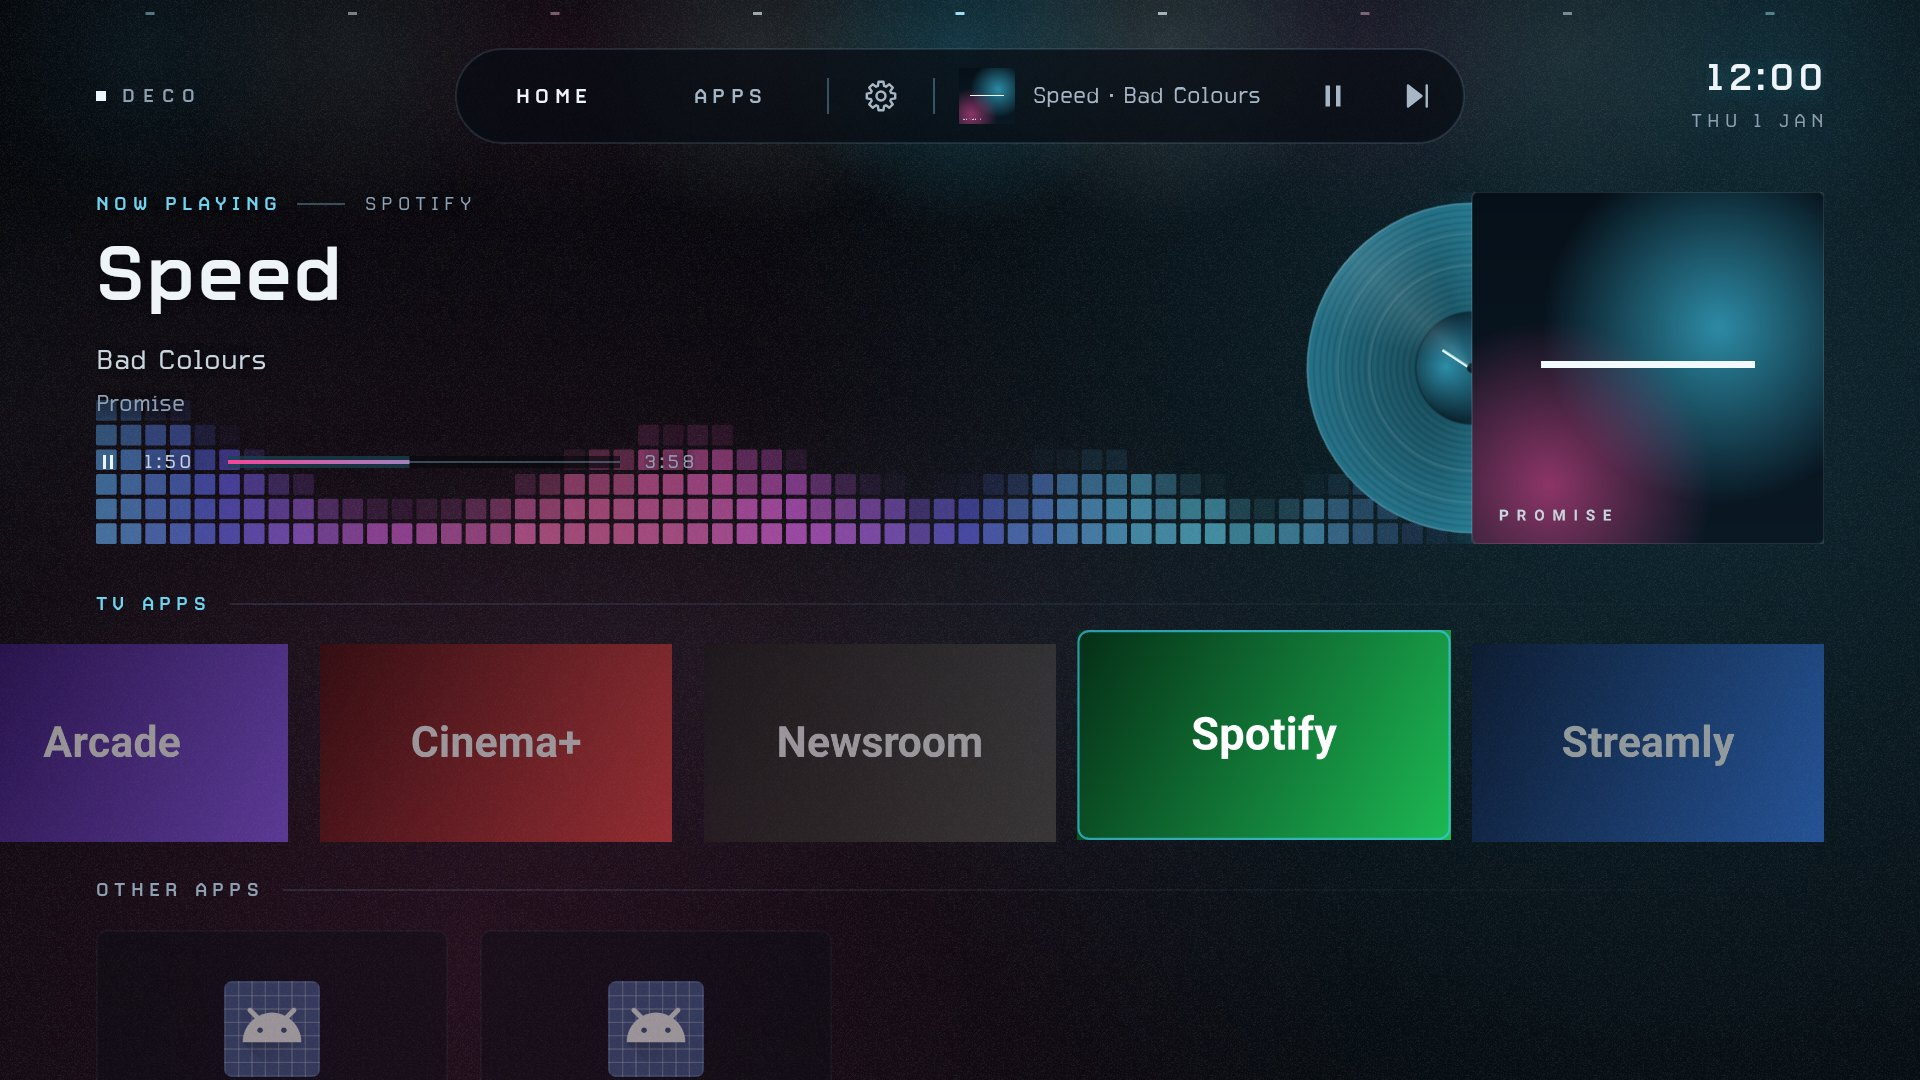
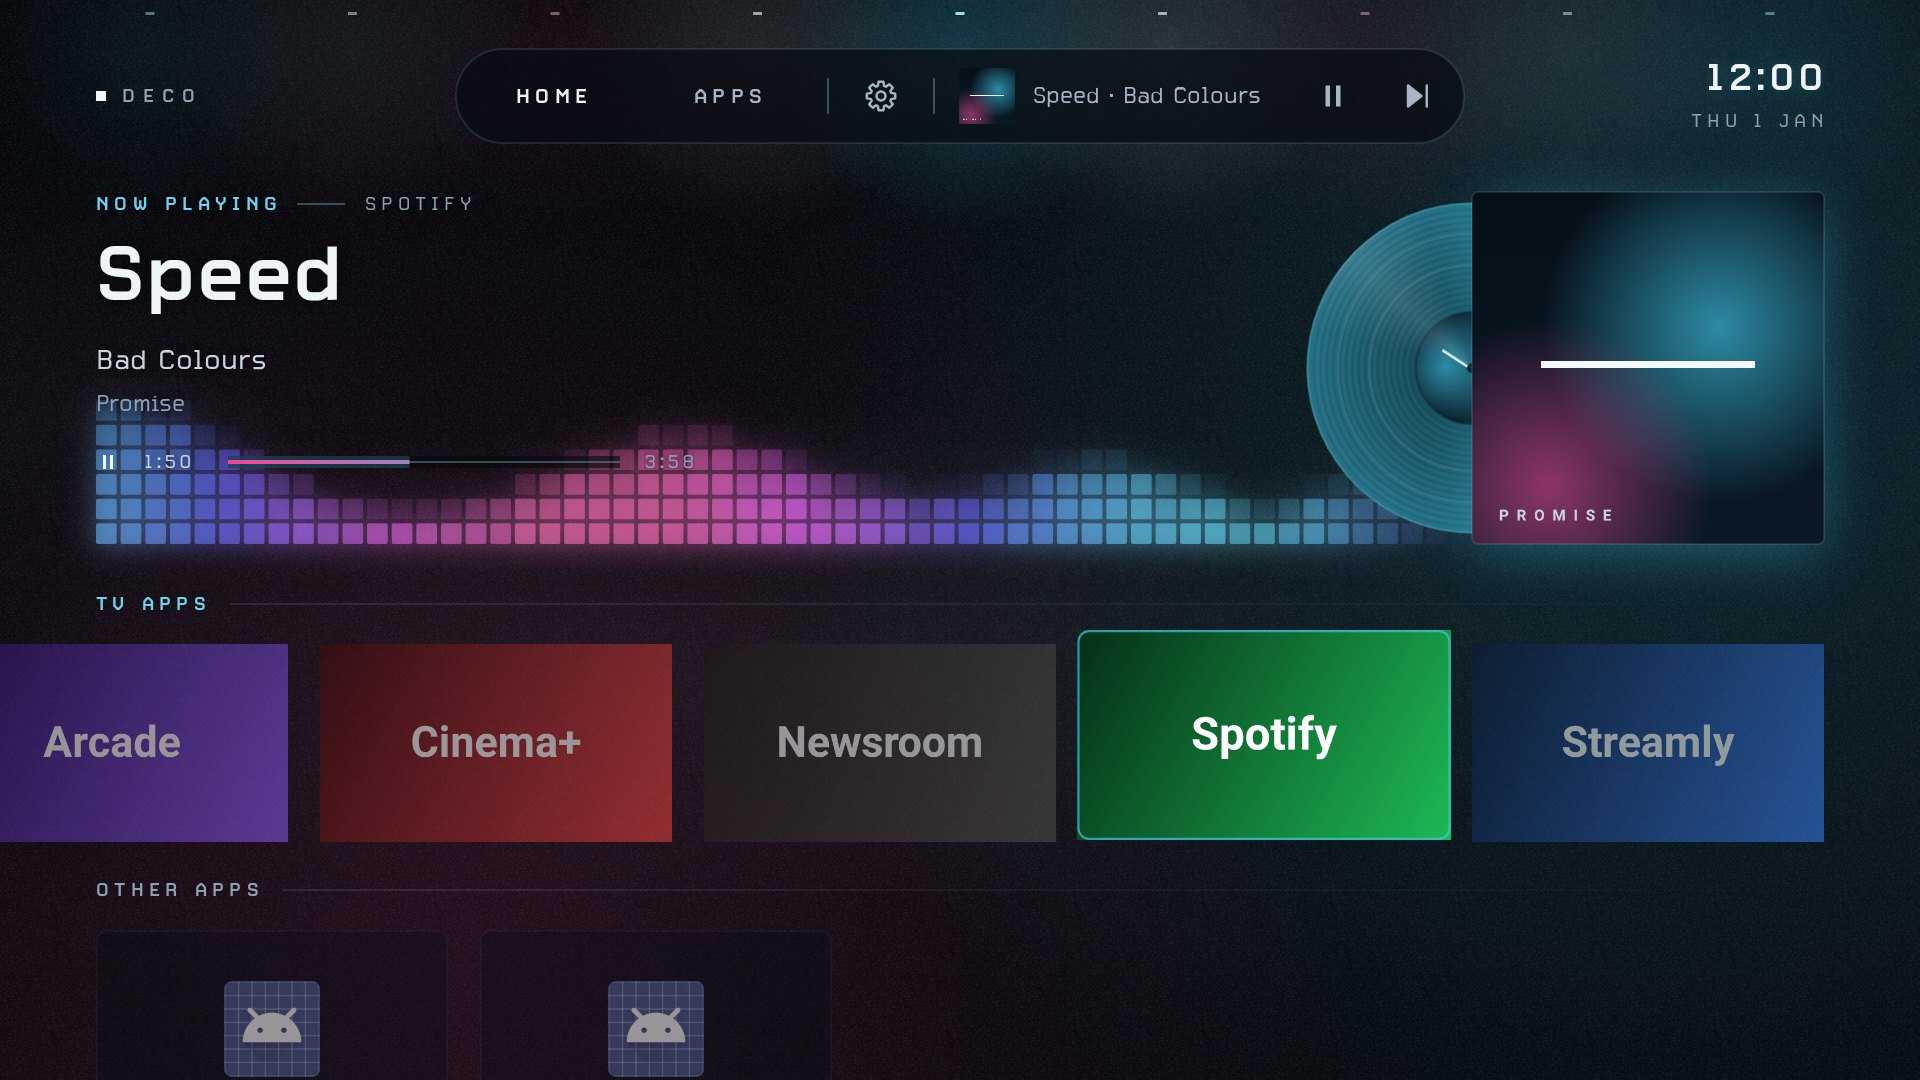
Deco Launcher 2.18: the visualizer glows like the wall of lamps
Each lit cell gets the same soft round glow as the wall's lamps, in its
band's colour: drawn small and stretched behind the sharp cells, a little
gentler so the cells stay see-through and never blow out. The hero no longer
clips, so the glow can spread just past the panel.

Claude-Session: https://claude.ai/code/session_01R4jjYX362V9wqDyS12UV2c

Changed region(s): [[0.0312, 0.3667, 0.75, 0.5194], [0.7812, 0.4889, 0.9375, 0.5194]]

diff --git a/launcher/app/src/main/java/com/camdeco/launcher/SoundWaveView.java b/launcher/app/src/main/java/com/camdeco/launcher/SoundWaveView.java
@@ -1,8 +1,12 @@
 package com.camdeco.launcher;
 
 import android.content.Context;
+import android.graphics.Bitmap;
 import android.graphics.Canvas;
 import android.graphics.Paint;
+import android.graphics.PorterDuff;
+import android.graphics.PorterDuffXfermode;
+import android.graphics.Rect;
 import android.graphics.RectF;
 import android.util.AttributeSet;
 import android.view.View;
@@ -19,8 +23,9 @@ import android.view.animation.AnimationUtils;
  * fades in and out, so heights change smoothly rather than a whole cell at a time. The cells take
  * the scene's colours, from the album cover: bands of its key and fill colour drift slowly across
  * the panel, blending round the colour wheel between them, and every cell is a little whiter
- * toward the bottom. The cells have no glow of their own, so they never blow out over the haze,
- * and the grid goes dark when the music stops.
+ * toward the bottom. Each lit cell has a soft round glow, like the wall of lamps: drawn small and
+ * stretched, and gentle enough that the cells never blow out over the haze. The grid goes dark
+ * when the music stops.
  */
 public class SoundWaveView extends View {
     private static final int COLUMNS = SoundWave.COLUMNS;
@@ -40,6 +45,20 @@ public class SoundWaveView extends View {
 
     private final Paint cellPaint = new Paint(Paint.ANTI_ALIAS_FLAG);
     private final RectF rect = new RectF();
+    /** How strong a cell's glow is, for its opacity. */
+    private static final float GLOW = 0.38f;
+    /** The glow layer is drawn at this fraction of the panel's size, spreading a little past it. */
+    private static final float SOFT = 1 / 8f;
+    private final Bitmap glowSprite = Glow.sprite();
+    private final Paint glowPaint = new Paint(Paint.FILTER_BITMAP_FLAG);
+    private final Paint softPaint = new Paint(Paint.FILTER_BITMAP_FLAG | Paint.DITHER_FLAG);
+    private final Rect softBounds = new Rect();
+    private Bitmap soft;
+    private Canvas softCanvas;
+    /** This frame's lit cells: where (column, row), how opaque, and what colour. */
+    private int[] litCell = new int[0];
+    private float[] litOpacity = new float[0];
+    private int[] litColour = new int[0];
     private final float[] target = new float[COLUMNS];
     private final float[] shown = new float[COLUMNS];
     private SoundWave source;
@@ -62,6 +81,7 @@ public class SoundWaveView extends View {
 
     public SoundWaveView(Context context, AttributeSet attrs) {
         super(context, attrs);
+        glowPaint.setXfermode(new PorterDuffXfermode(PorterDuff.Mode.ADD)); // light adds up
     }
 
     void setSource(SoundWave wave) {
@@ -139,7 +159,22 @@ public class SoundWaveView extends View {
         rows = pitch > 0 ? Math.max(1, (int) ((h + pitch * GAP) / pitch)) : 0;
         palette = new int[(STEPS + 1) * rows];
         rowOpacity = new float[rows];
+        litCell = new int[ALL * rows];
+        litOpacity = new float[ALL * rows];
+        litColour = new int[ALL * rows];
         updateRows();
+        // The glow spreads a little past the panel (the hero doesn't clip it).
+        int margin = Math.round(pitch * 2);
+        softBounds.set(-margin, -margin, w + margin, h + margin);
+        if (soft != null) soft.recycle();
+        soft = null;
+        if (w > 0 && h > 0) {
+            soft = Bitmap.createBitmap(Math.max(1, Math.round(softBounds.width() * SOFT)),
+                    Math.max(1, Math.round(softBounds.height() * SOFT)), Bitmap.Config.ARGB_8888);
+            softCanvas = new Canvas(soft);
+            softCanvas.scale(SOFT, SOFT);
+            softCanvas.translate(margin, margin);
+        }
     }
 
     private void updateRows() {
@@ -180,6 +215,7 @@ public class SoundWaveView extends View {
             shown[c] = goal > shown[c] ? shown[c] + (goal - shown[c]) * rise : goal + (shown[c] - goal) * settle;
         }
 
+        int count = 0;
         for (int c = 0; c < ALL; c++) {
             int colours = step(c) * rows;
             // The tail echoes the treble columns, last first.
@@ -194,11 +230,30 @@ public class SoundWaveView extends View {
                 float tip = fromTop < TIP.length ? TIP[fromTop] : 1f;
                 float opacity = rowOpacity[r] * strength * tip * columnFade[c];
                 if (opacity < 0.01f) continue;
-                cellRect(c, r, 0);
-                cellPaint.setColor(palette[colours + r]);
-                cellPaint.setAlpha(Math.round(255 * opacity));
-                canvas.drawRoundRect(rect, radius, radius, cellPaint);
+                litCell[count] = c * rows + r;
+                litOpacity[count] = opacity;
+                litColour[count] = palette[colours + r];
+                count++;
             }
+        }
+
+        // The glows first, into the small layer, stretched behind the sharp cells.
+        if (soft != null) {
+            soft.eraseColor(0);
+            for (int i = 0; i < count; i++) {
+                cellRect(litCell[i] / rows, litCell[i] % rows, 0);
+                float spread = cell * 1.6f;
+                rect.inset(-spread, -spread);
+                glowPaint.setColor(Scene.alpha(litColour[i], litOpacity[i] * GLOW));
+                softCanvas.drawBitmap(glowSprite, null, rect, glowPaint);
+            }
+            canvas.drawBitmap(soft, null, softBounds, softPaint);
+        }
+        for (int i = 0; i < count; i++) {
+            cellRect(litCell[i] / rows, litCell[i] % rows, 0);
+            cellPaint.setColor(litColour[i]);
+            cellPaint.setAlpha(Math.round(255 * litOpacity[i]));
+            canvas.drawRoundRect(rect, radius, radius, cellPaint);
         }
         if (running) postInvalidateOnAnimation();
     }

diff --git a/launcher/app/src/main/java/com/camdeco/launcher/LightWallView.java b/launcher/app/src/main/java/com/camdeco/launcher/LightWallView.java
@@ -34,8 +34,7 @@ public class LightWallView extends View {
     private final Paint softPaint = new Paint(Paint.FILTER_BITMAP_FLAG | Paint.DITHER_FLAG);
     private final Rect softBounds = new Rect();
     private final RectF glowRect = new RectF();
-    /** One round, soft glow, drawn in each lamp's colour (an alpha-only picture takes the paint's colour). */
-    private final Bitmap glowSprite = sprite();
+    private final Bitmap glowSprite = Glow.sprite();
     private final float[] seeds = new float[ROWS * COLUMNS];
     /** This frame's strength, colour and flare for each lamp. */
     private final float[] values = new float[ROWS * COLUMNS];
@@ -155,22 +154,5 @@ public class LightWallView extends View {
             }
         }
         if (running) postInvalidateDelayed(FRAME_MS);
-    }
-
-    /** A soft round spot: full in the middle, fading to nothing at the edge. */
-    private static Bitmap sprite() {
-        int size = 32;
-        Bitmap bitmap = Bitmap.createBitmap(size, size, Bitmap.Config.ALPHA_8);
-        int[] pixels = new int[size * size];
-        float r = size / 2f;
-        for (int y = 0; y < size; y++) {
-            for (int x = 0; x < size; x++) {
-                float d = (float) Math.hypot(x + 0.5f - r, y + 0.5f - r) / r;
-                float a = d >= 1f ? 0f : (1 - d) * (1 - d);
-                pixels[y * size + x] = Math.round(a * 255) << 24;
-            }
-        }
-        bitmap.setPixels(pixels, 0, size, 0, 0, size, size);
-        return bitmap;
     }
 }

diff --git a/launcher/app/src/main/java/com/camdeco/launcher/Glow.java b/launcher/app/src/main/java/com/camdeco/launcher/Glow.java
@@ -1,0 +1,33 @@
+package com.camdeco.launcher;
+
+import android.graphics.Bitmap;
+
+/**
+ * The soft round glow behind a sharp light (the wall's lamps, the visualizer's cells): full in the
+ * middle and fading to nothing at the edge. It's alpha only, so drawing it takes the paint's
+ * colour, and it's drawn into a small layer that's stretched over the screen, like light in fog.
+ */
+final class Glow {
+    private static Bitmap sprite;
+
+    private Glow() {
+    }
+
+    static synchronized Bitmap sprite() {
+        if (sprite != null && !sprite.isRecycled()) return sprite;
+        int size = 32;
+        Bitmap bitmap = Bitmap.createBitmap(size, size, Bitmap.Config.ALPHA_8);
+        int[] pixels = new int[size * size];
+        float r = size / 2f;
+        for (int y = 0; y < size; y++) {
+            for (int x = 0; x < size; x++) {
+                float d = (float) Math.hypot(x + 0.5f - r, y + 0.5f - r) / r;
+                float a = d >= 1f ? 0f : (1 - d) * (1 - d);
+                pixels[y * size + x] = Math.round(a * 255) << 24;
+            }
+        }
+        bitmap.setPixels(pixels, 0, size, 0, 0, size, size);
+        sprite = bitmap;
+        return bitmap;
+    }
+}

diff --git a/launcher/README.md b/launcher/README.md
@@ -137,7 +137,8 @@ toward the top so the text stays easy to read, and each bar's top cell is a litt
 cell of a column fades in and out, so the heights change smoothly. The cells take the album
 cover's colours: bands of its key and fill colour drift slowly across the panel, blending round
 the colour wheel between them so they never turn grey. Cells are a little whiter at the bottom,
-have no glow of their own so they never blow out over the haze, and go dark on pause.
+each has the same soft round glow as the wall of lamps (gentle, so they never blow out over the
+haze), and they go dark on pause.
 
 All columns share one volume scale, so a bassy song lights mostly the left and a sung part mostly
 the middle. Higher columns get lifted to make up for music naturally carrying far more energy in
